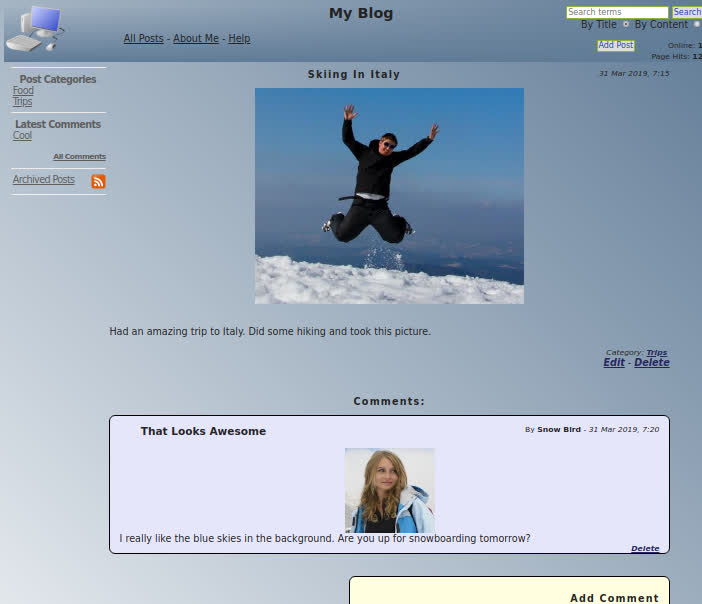
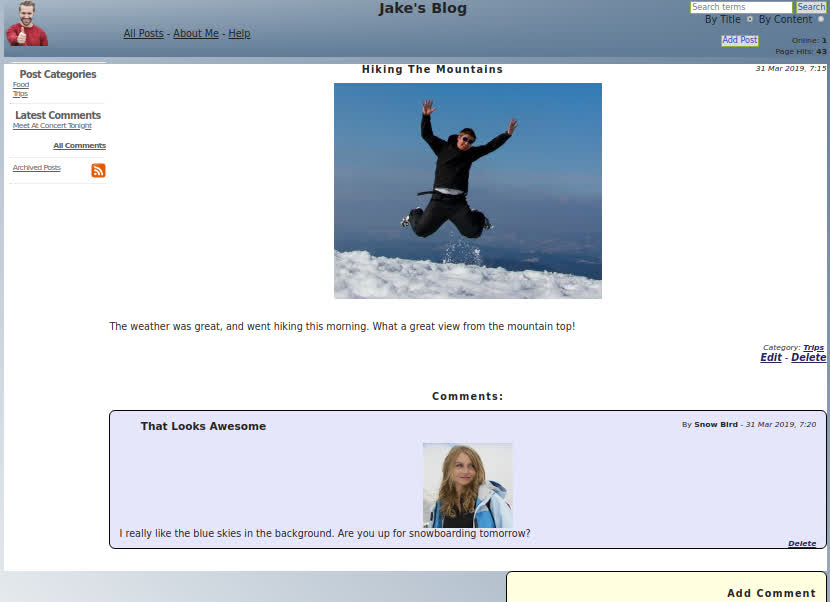
Updated style.css for white background.  updated blog00.jpg

diff --git a/app/style.css b/app/style.css
@@ -100,6 +100,7 @@ div#menu {
 
 #menu a {
 	display: block;
+	font-size: .8em;
 	color: #5C5C5C;
 	text-transform: capitalize;
 	padding-left: 5px;
@@ -115,6 +116,8 @@ div#content {
 	/* border-left: 1px dashed silver; */
 	padding-left: 11em;
 	min-height: 600px;
+	background-color: white;
+	width: 87%;
 }
 
 #content h1 {
